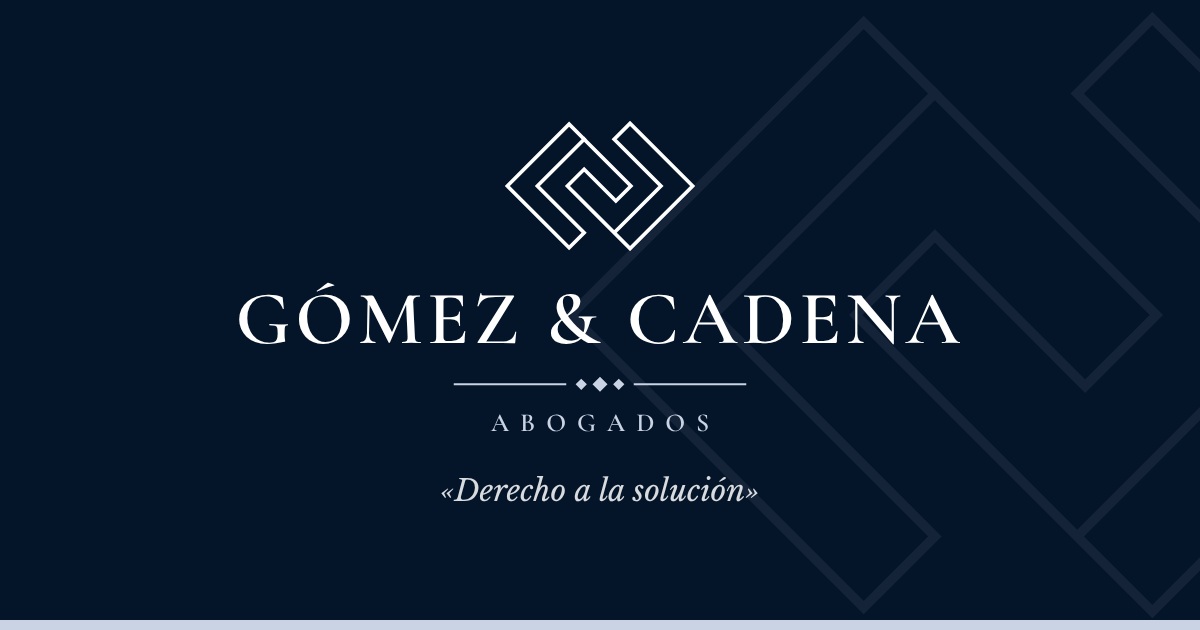
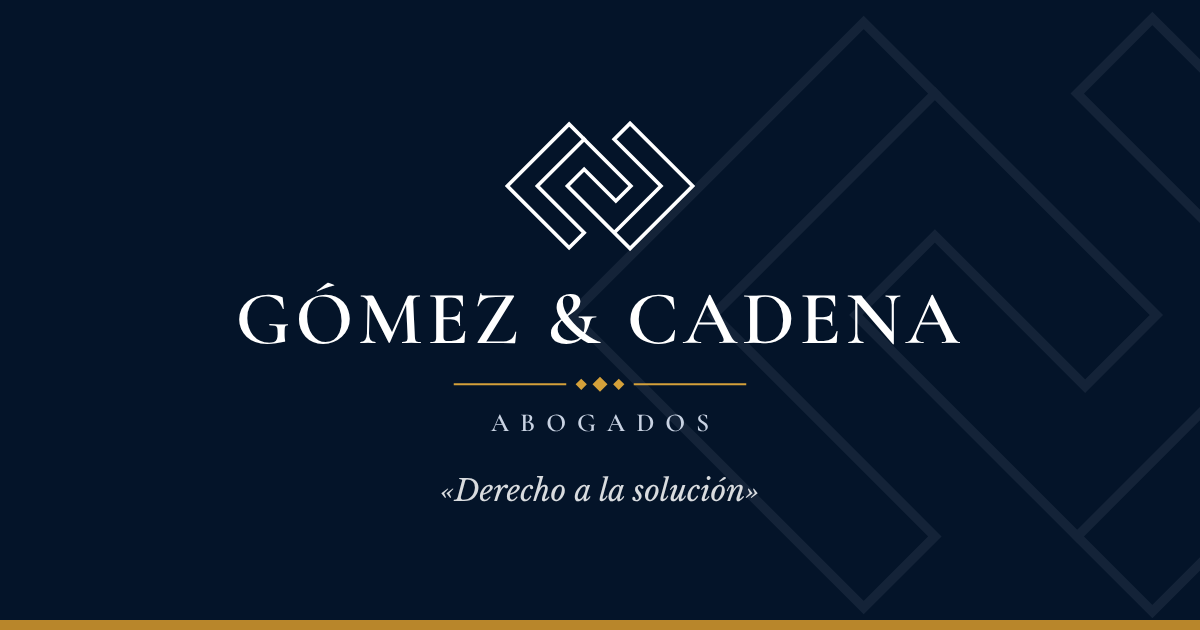
Agregar toques dorados sutiles
Dorado solo en detalles finos: filetes de las etiquetas de sección, ornamento
del logo, números de los pasos y bordes superiores de cifras, modalidades y
equipo. Textos, botones y fondos siguen en azul profundo y gris.

Claude-Session: https://claude.ai/code/session_012VM6f1difJM5RRJJPZpVey

Changed region(s): [[0.0, 0.9651, 1.0, 1.0], [0.37, 0.6032, 0.6167, 0.6333]]

diff --git a/assets/css/styles.css b/assets/css/styles.css
@@ -28,6 +28,7 @@
   --cta-fg: #ffffff;
   --cta-muted: rgba(255, 255, 255, 0.76);
   --on-dark-accent: #c9d3e3;
+  --gold: #b8862b;            /* toques sutiles: filetes, ornamento, números */
   --header-bg: rgba(255, 255, 255, 0.9);
   --focus: #041429;
   --success: #1f7a4d;
@@ -71,6 +72,7 @@
     --cta-fg: #ffffff;
     --cta-muted: rgba(255, 255, 255, 0.76);
     --on-dark-accent: #c9d3e3;
+    --gold: #d4a03a;
     --header-bg: rgba(3, 13, 28, 0.88);
     --focus: #c9d3e3;
     --success: #5cc795;
@@ -103,6 +105,7 @@
   --cta-fg: #ffffff;
   --cta-muted: rgba(255, 255, 255, 0.76);
   --on-dark-accent: #c9d3e3;
+  --gold: #d4a03a;
   --header-bg: rgba(3, 13, 28, 0.88);
   --focus: #c9d3e3;
   --success: #5cc795;
@@ -1339,3 +1342,14 @@ body.drawer-open .wa-float { display: none; }
 .team-card h3 { font-size: 1.02rem; color: #ffffff; }
 .team-card p { margin-top: 4px; font-size: 0.86rem; color: var(--on-dark-accent); font-weight: 600; letter-spacing: 0.04em; }
 @media (max-width: 380px) { .team { grid-template-columns: 1fr; } }
+
+/* ---------- Toques dorados (pocos y sutiles) ---------- */
+.eyebrow::before,
+.section-navy .eyebrow::before,
+.cta-box .eyebrow::before { background: var(--gold); }
+.ornament { color: var(--gold); }
+.brand-sig .ornament { color: var(--gold); }
+.step-num::before { color: var(--gold); }
+.stat-row .stat { border-top-color: var(--gold); }
+.modality { border-top-color: #b8862b; }
+.team-card div { border-top-color: #d4a03a; }
